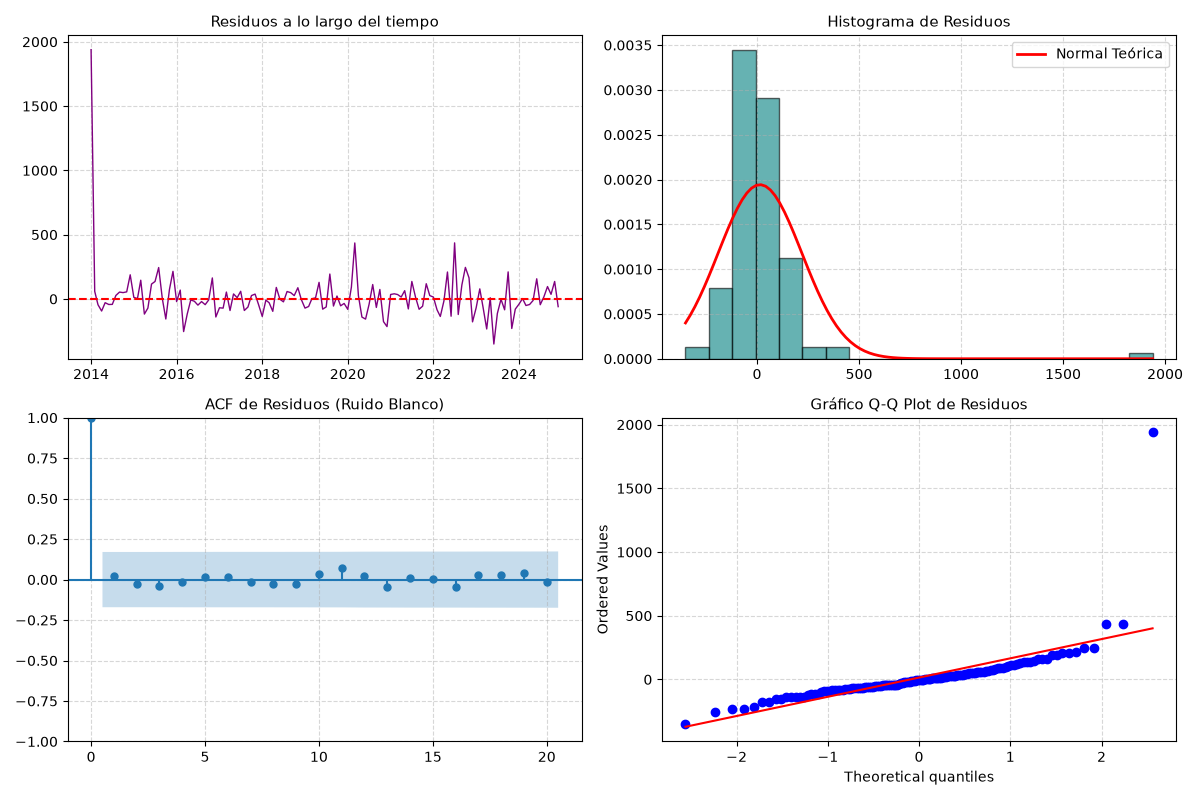
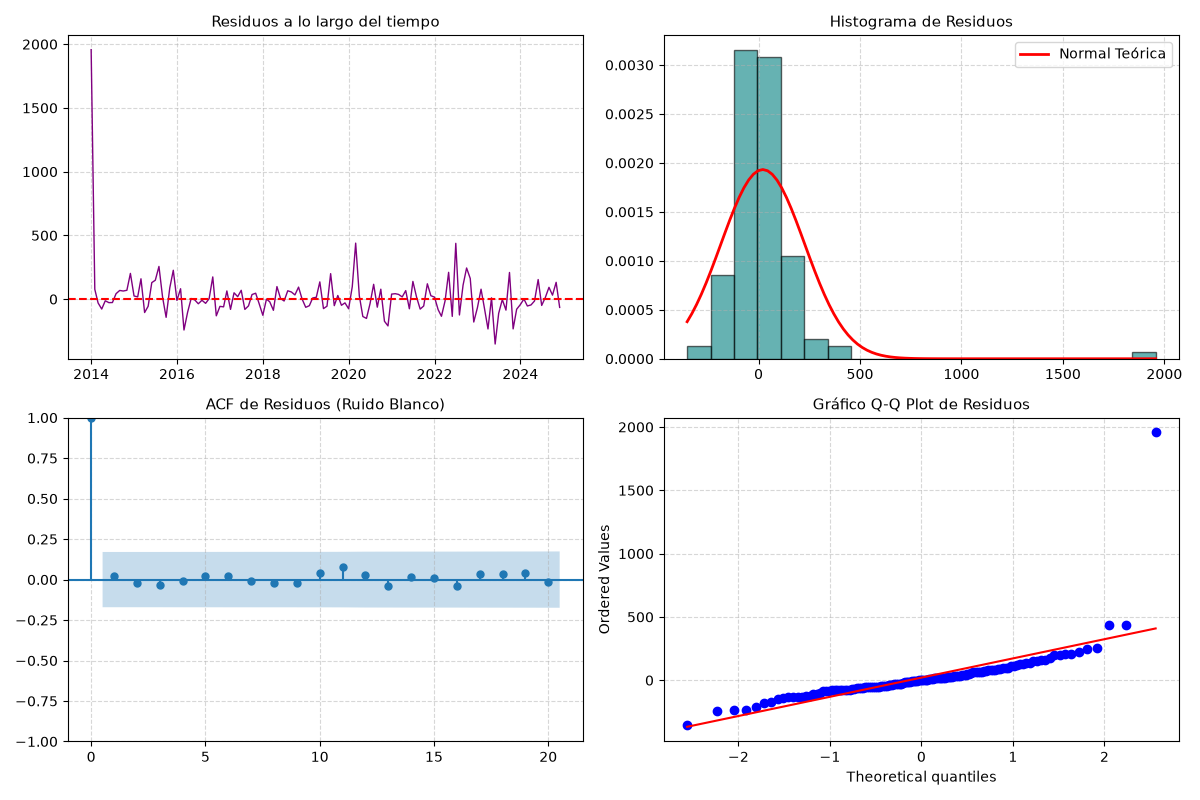
Correcciones - ARCH Heterocedasticidad

diff --git a/codigo/04_validacion_residuales.py b/codigo/04_validacion_residuales.py
@@ -8,6 +8,7 @@ import pandas as pd
 import scipy.stats as stats
 from statsmodels.graphics.tsaplots import plot_acf
 from statsmodels.stats.diagnostic import acorr_ljungbox
+from statsmodels.stats.diagnostic import het_arch
 from statsmodels.tsa.statespace.sarimax import SARIMAX
 
 # Definimos rutas relativas
@@ -23,8 +24,9 @@ df.set_index("Fecha", inplace=True)
 df.index.freq = "MS"
 serie_trm = df["TRM_Promedio_Mensual"]
 
-#Ajuste del modelo ganador: ARIMA(0,1,1) con constante
-modelo_ganador = SARIMAX(serie_trm, order=(0, 1, 1), trend="c")
+# Ajuste del modelo ganador: ARIMA(0,1,1) con deriva.
+# Con una diferencia, la constante se representa mediante una tendencia lineal.
+modelo_ganador = SARIMAX(serie_trm, order=(0, 1, 1), trend="t")
 fit_ganador = modelo_ganador.fit(disp=False)
 
 # Extraemos los residuales del modelo
@@ -34,7 +36,7 @@ print(f"Media de los residuos: {residuos.mean():.4f} (Cercana a 0)")
 
 #Prueba formal de Ljung-Box (para el RB)
 # Evaluamos a 6 y 12 rezagos (memoria semestral y anual)
-tabla_ljung = acorr_ljungbox(residuos, lags=[6, 12], return_df=True)
+tabla_ljung = acorr_ljungbox(residuos, lags=[6, 12], model_df=1, return_df=True)
 print("\n--- PRUEBA DE LJUNG-BOX (AUTOCORRELACIÓN RESIDUAL) ---")
 print(tabla_ljung)
 
@@ -45,6 +47,18 @@ if (tabla_ljung["lb_pvalue"] > 0.05).all():
 	)
 else:
 	print("\nConclusión Ljung-Box: Los residuos presentan autocorrelación significativa.")
+
+# Prueba ARCH de Engle: evalúa la varianza condicional a 6 y 12 rezagos
+print("\n--- PRUEBA ARCH DE ENGLE (HETEROCEDASTICIDAD CONDICIONAL) ---")
+for rezagos in (6, 12):
+	lm_stat, lm_pvalue, f_stat, f_pvalue = het_arch(residuos, nlags=rezagos)
+	print(f"\nRezagos: {rezagos}")
+	print(f"Estadístico LM: {lm_stat:.4f}")
+	print(f"p-valor (LM): {lm_pvalue:.4f}")
+	if lm_pvalue > 0.05:
+		print("Conclusión ARCH: No se rechaza H0. Los residuos son HOMOCEDÁSTICOS (varianza constante).")
+	else:
+		print("Conclusión ARCH: Se rechaza H0. Hay efectos ARCH (volatilidad agrupada común en divisas).")
 
 # Prueba formal de normalidad de Jarque-Bera
 jb_stat, jb_pvalue = stats.jarque_bera(residuos)
@@ -105,4 +119,4 @@ plt.tight_layout()
 ruta_grafica = ruta_resultados / "05_diagnostico_residuos.png"
 plt.savefig(ruta_grafica)
 plt.show()
-print(f"\n¡ÉXITO de las pruebas! va para: {ruta_grafica}")
+print(f"\nGráfica de diagnóstico guardada en: {ruta_grafica}")

diff --git a/codigo/01_prueba.py b/codigo/01_prueba.py
@@ -2,7 +2,7 @@ from pathlib import Path
 
 import pandas as pd
 
-# 1. Definir la ruta relativa usando pathlib (como exige la guía)
+# 1. Definir la ruta relativa usando pathlib 
 ruta_base = Path(__file__).resolve().parent.parent
 ruta_datos = ruta_base / "datos" / "TRM_Mensual_2014_2024.csv"
 
